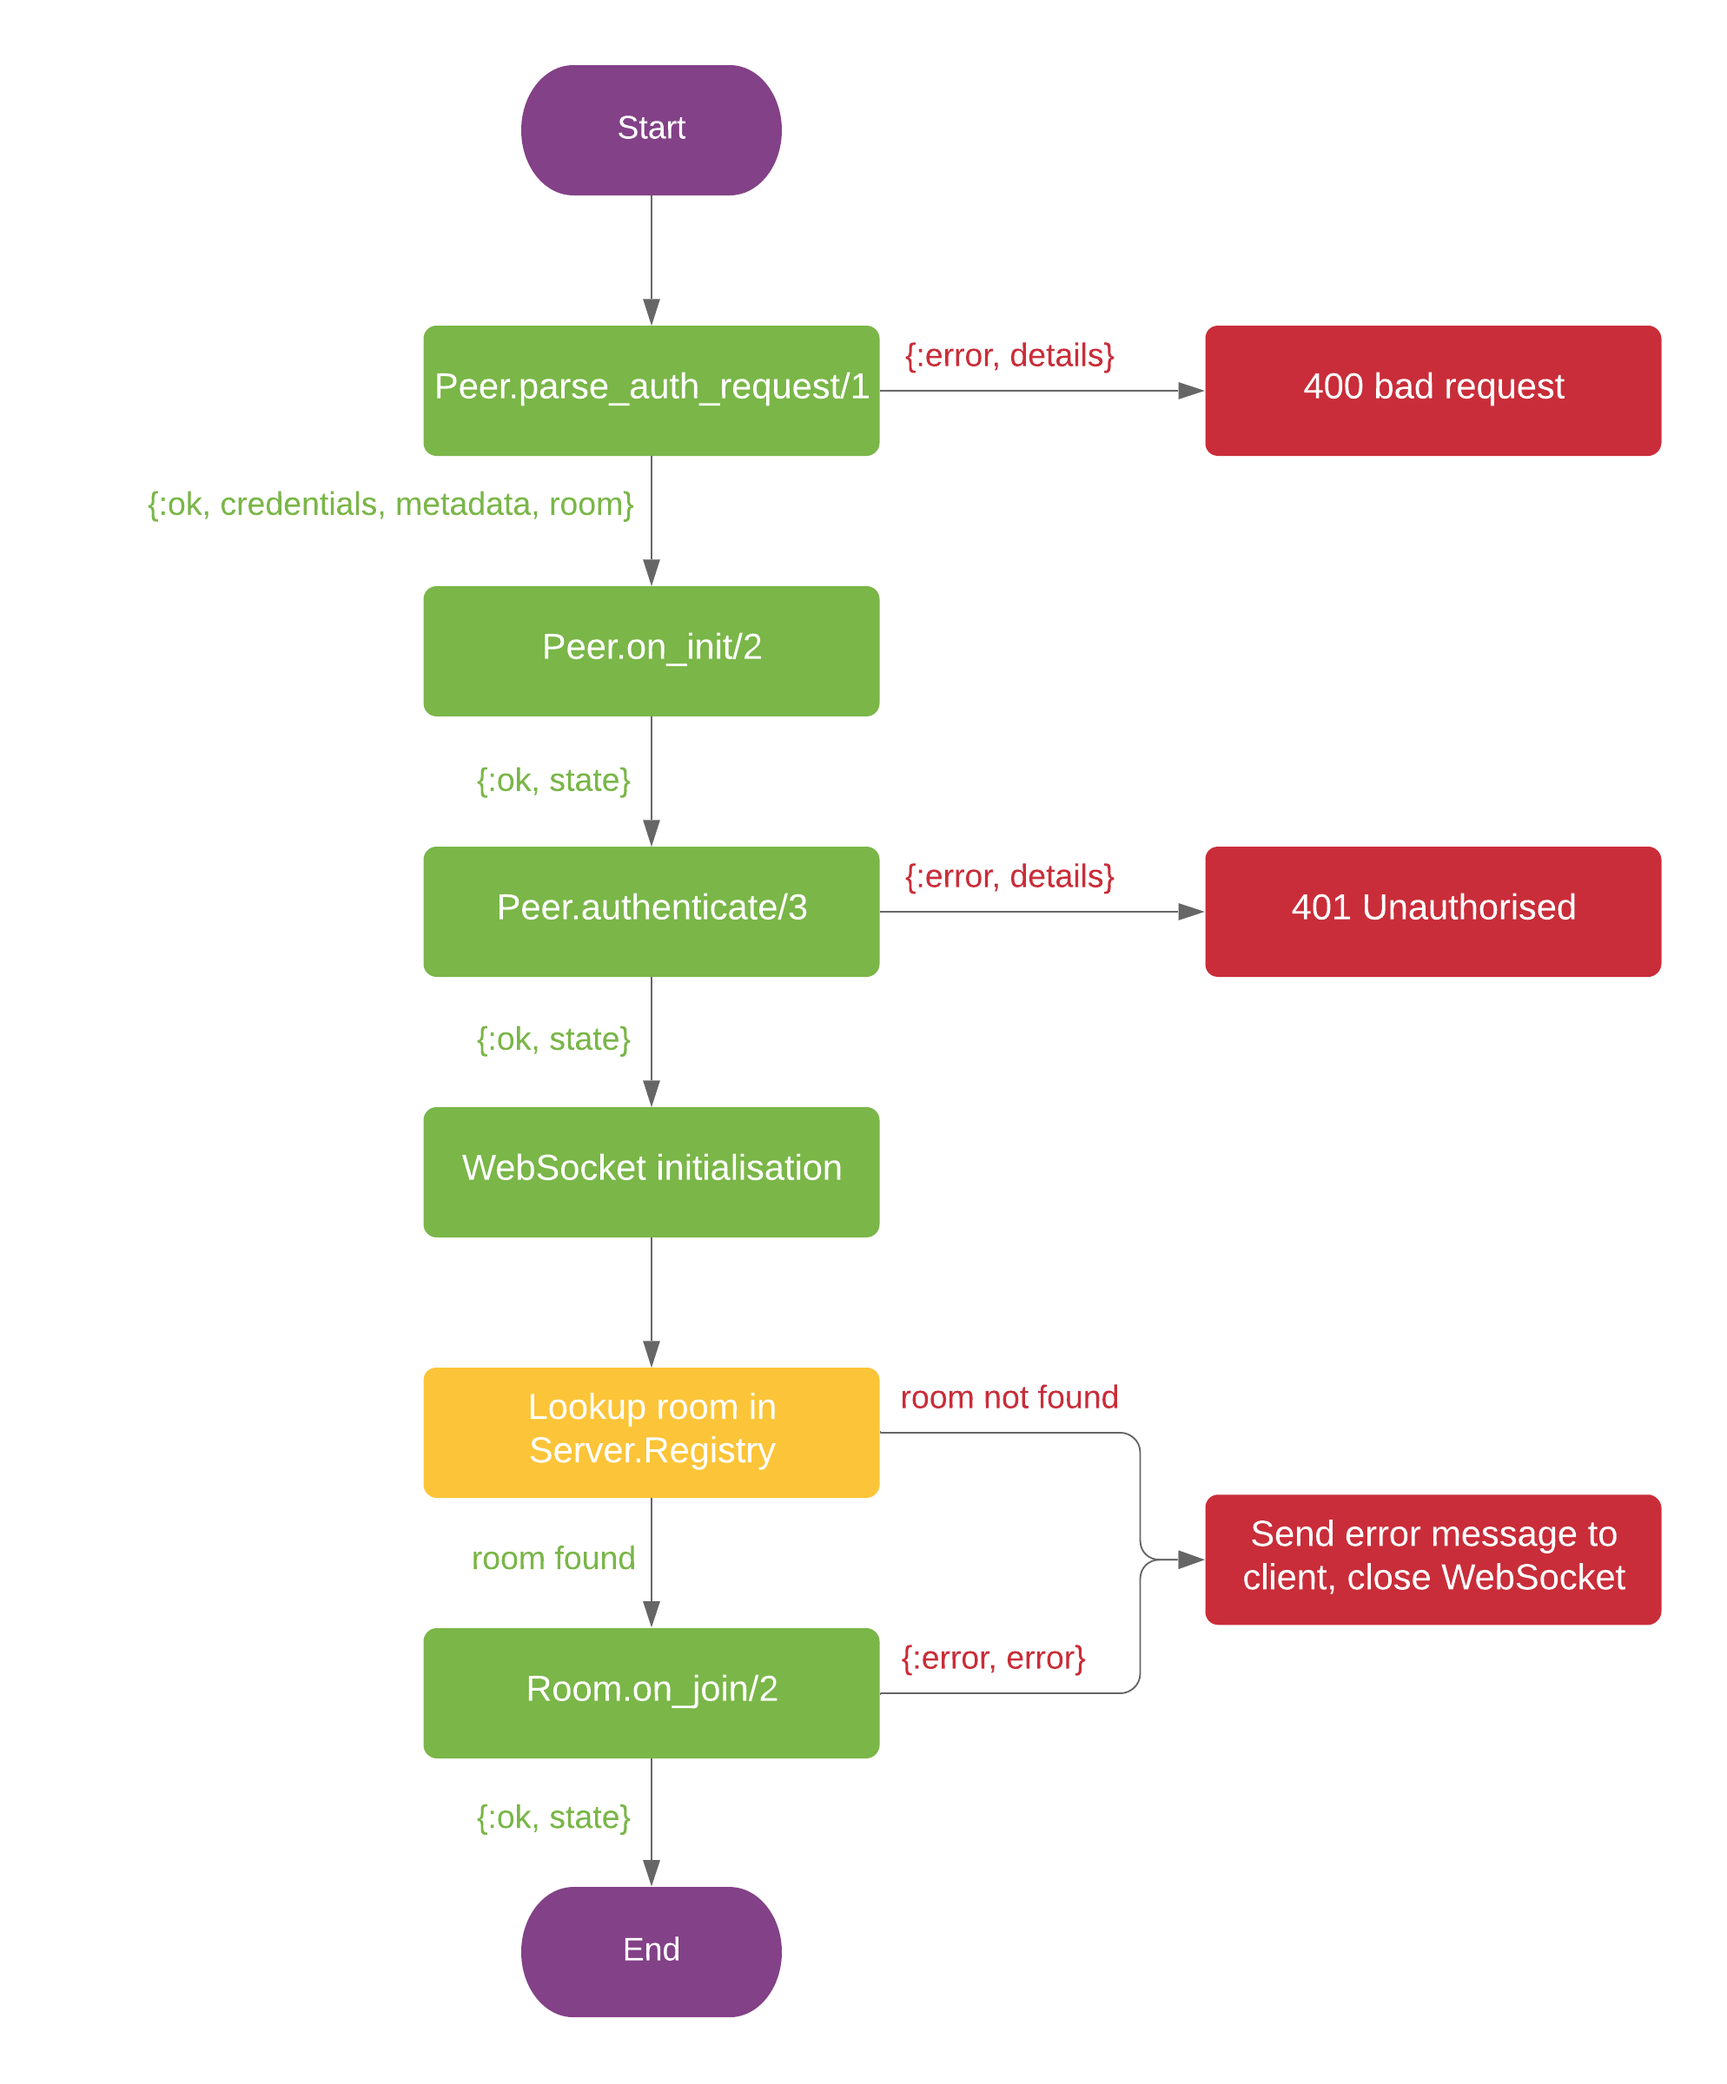
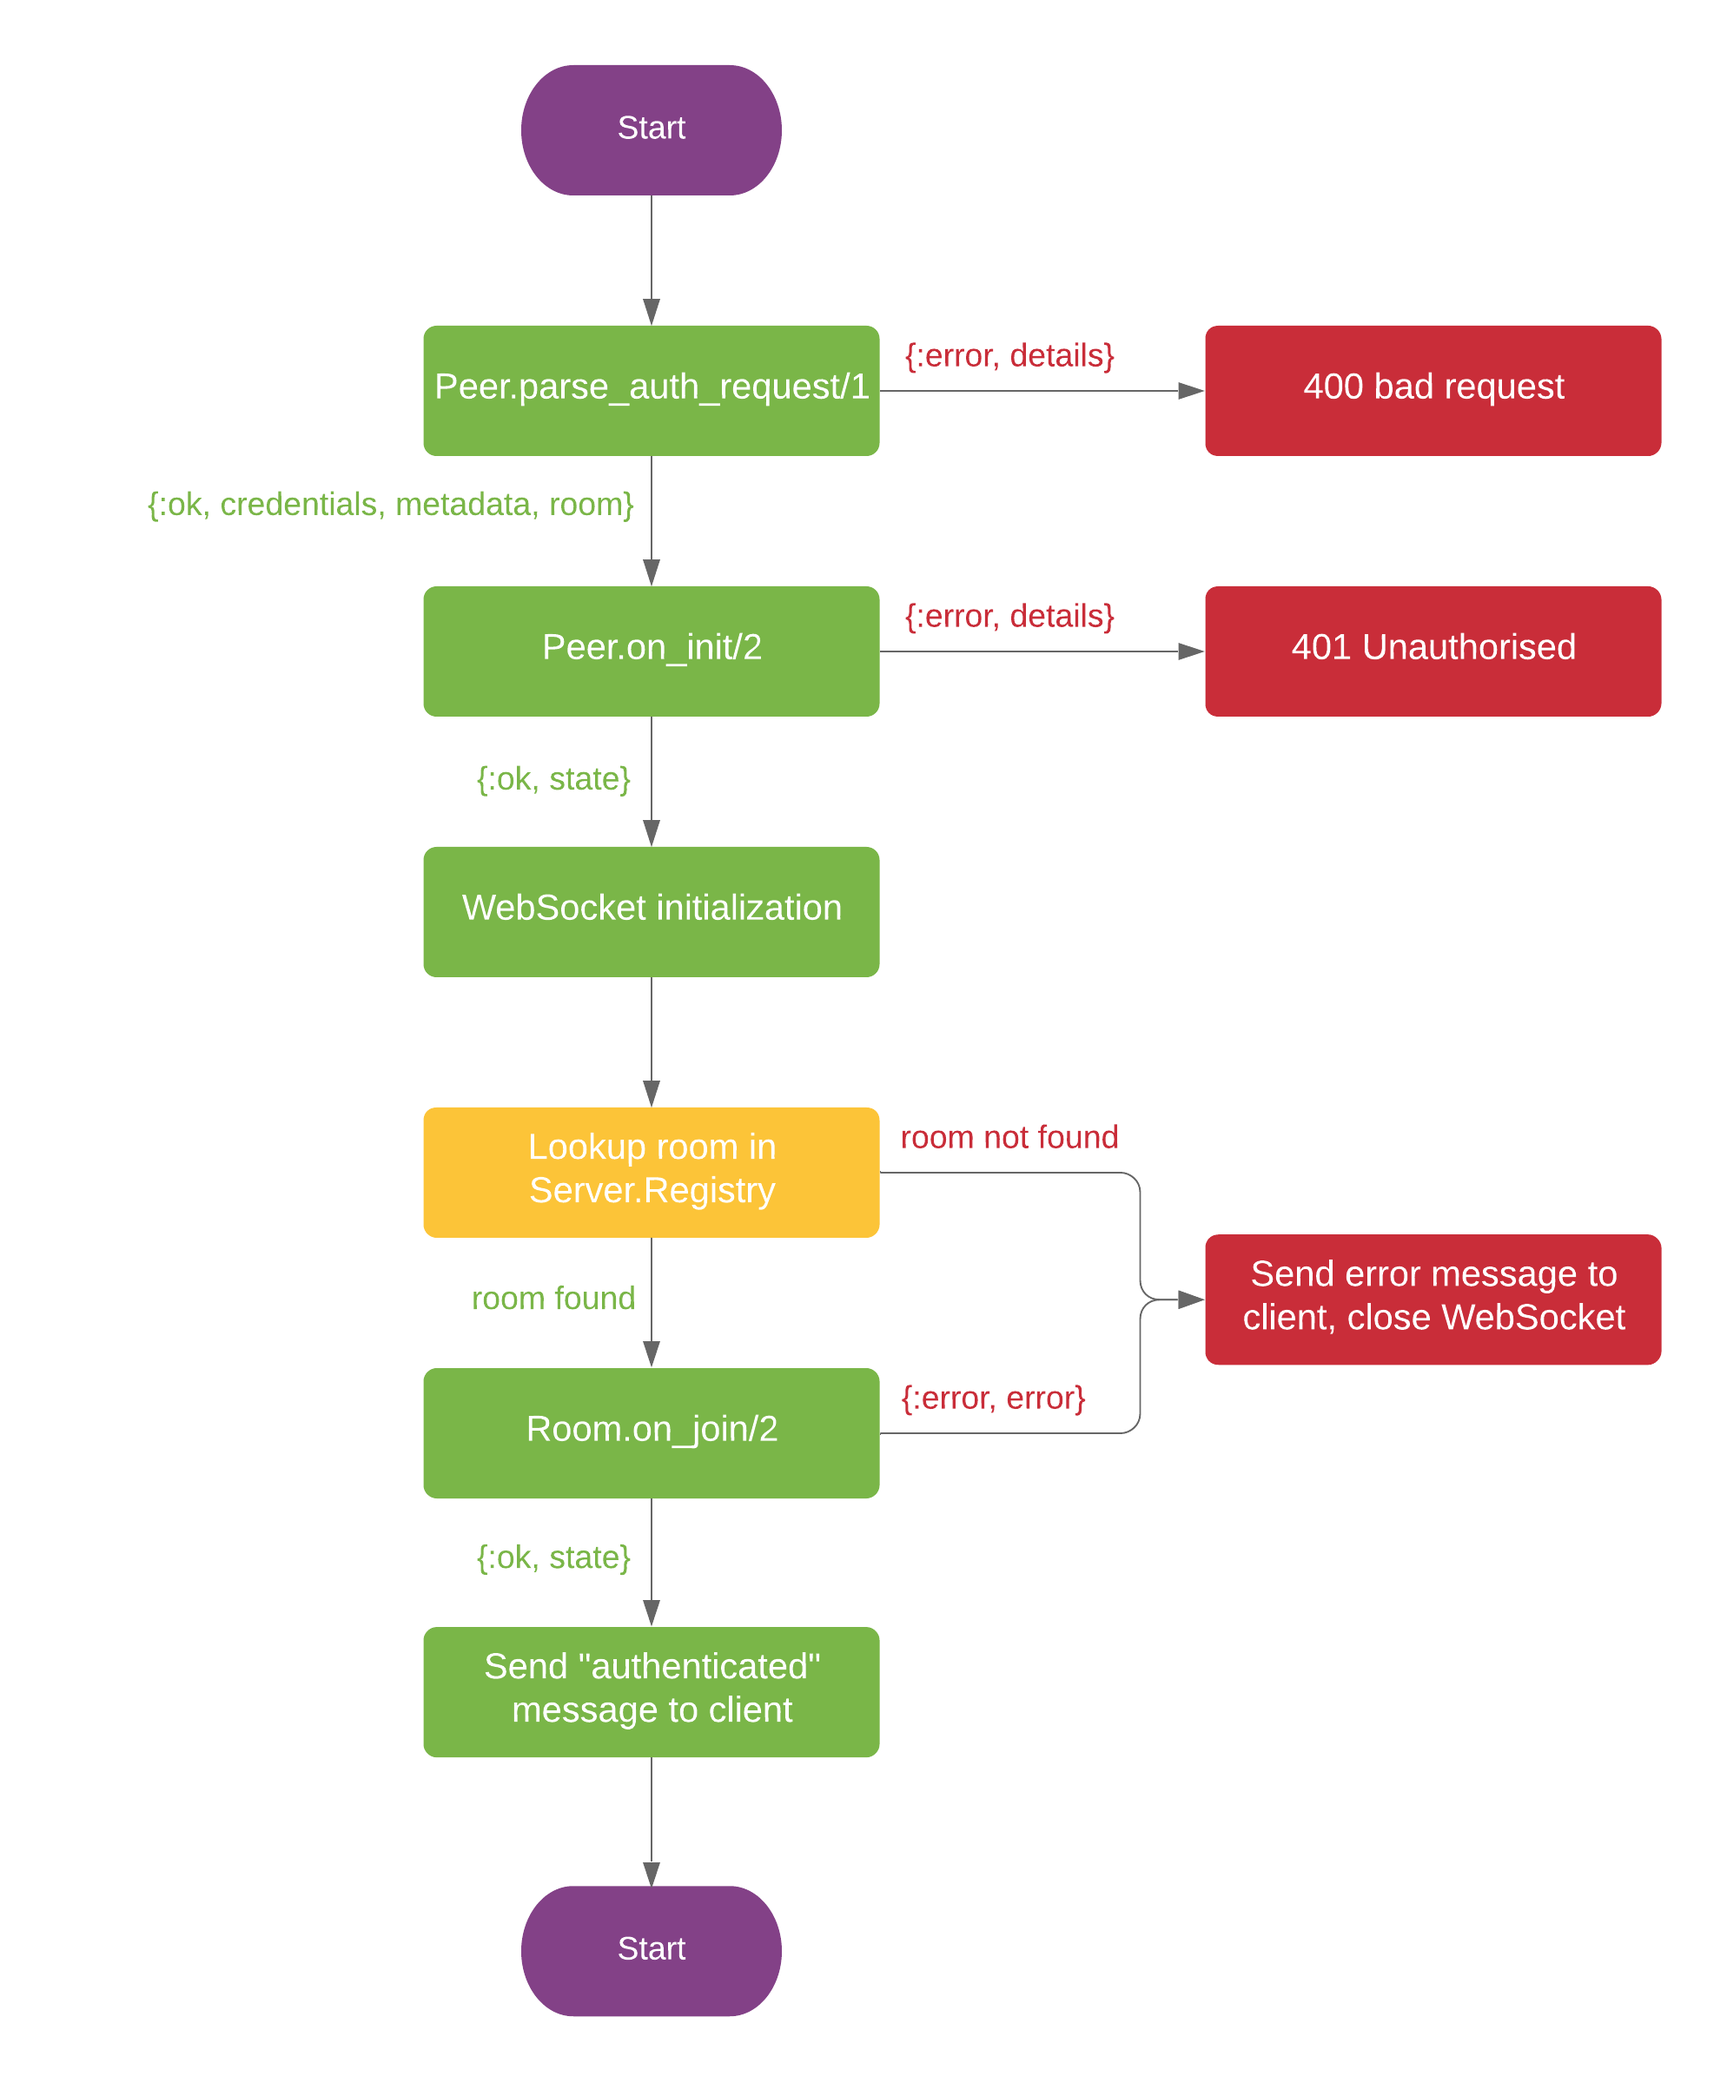
Update documentation

diff --git a/initialization.md b/initialization.md
@@ -1,0 +1,26 @@
+## Initialisation
+
+After receiving request, peer should parse it via 
+[`parse_request/1`](./Membrane.WebRTC.Server.Peer.html#c:parse_request/1) callback. Credentials 
+and metadata returned from it will be used to create `Membrane.WebRTC.Server.Peer.AuthData`. 
+Then, state is initialized in [`on_init/3`](./Membrane.WebRTC.Server.Peer.html#c:on_init/3) and 
+authentication is performed with `Membrane.WebRTC.Server.Peer.AuthData` extracted from the 
+request. Finally, WebSocket is initialized.
+
+After successful initialization, the peer will try to join the room with the name returned from 
+[`parse_request/1`](./Membrane.WebRTC.Server.Peer.html#c:parse_request/1). Authorization (with 
+the same `Membrane.WebRTC.Server.Peer.AuthData`) or other checks can be performed in
+[`on_join/2`](./Membrane.WebRTC.Server.Room.html#c:on_join/2) callback. After that, the peer will
+send 
+```
+{
+    event: "authenticated",
+    data: {
+        peer_id: peer_id
+    }
+}
+```
+message to client to inform about successful initialization and joining a room.
+
+![](assets/images/init.png)
+

diff --git a/README.md b/README.md
@@ -1,9 +1,12 @@
 # WebRTC Server
 
-An Elixir signaling server for WebRTC based on [`Cowboy WebSocket`](https://ninenines.eu/docs/en/cowboy/2.6/manual/cowboy_websocket/). Consists of two main parts: Peer and Room.
+An Elixir signaling server for WebRTC based on 
+[`Cowboy WebSocket`](https://ninenines.eu/docs/en/cowboy/2.6/manual/cowboy_websocket/). 
+Consists of two main parts: Peer and Room.
 
 ## Example application
-Example application based on [`Plug`](https://hexdocs.pm/plug/) can be found [here](https://github.com/membraneframework/webrtc-server/tree/master/example).
+Example application based on [`Plug`](https://hexdocs.pm/plug/) can be found 
+[here](https://github.com/membraneframework/webrtc-server/tree/master/example).
 
 ## Copyright and License
 

diff --git a/signaling.md b/signaling.md
@@ -1,0 +1,14 @@
+## Signaling
+
+The client communicates with peer by exchanging JSON messages. These messages should have the same
+fields as `Membrane.WebRTC.Server.Message`, which is used in internal communication.
+
+Every JSON message received from the client will be decoded into `Membrane.WebRTC.Server.Message`
+struct. The peer will set `from` field with own peer_id. Then it will send message to the room, 
+where it will be passed to addressee. The addressee and sender are specified in `to` and `from` 
+message fields by peer_ids.
+
+The Message can be modified or ignored by both peer and room using `on_receive` callbacks.
+Addressee peer, after receiving the message will encode it back to JSON and send it to its client.
+
+![](assets/images/signal.png)
